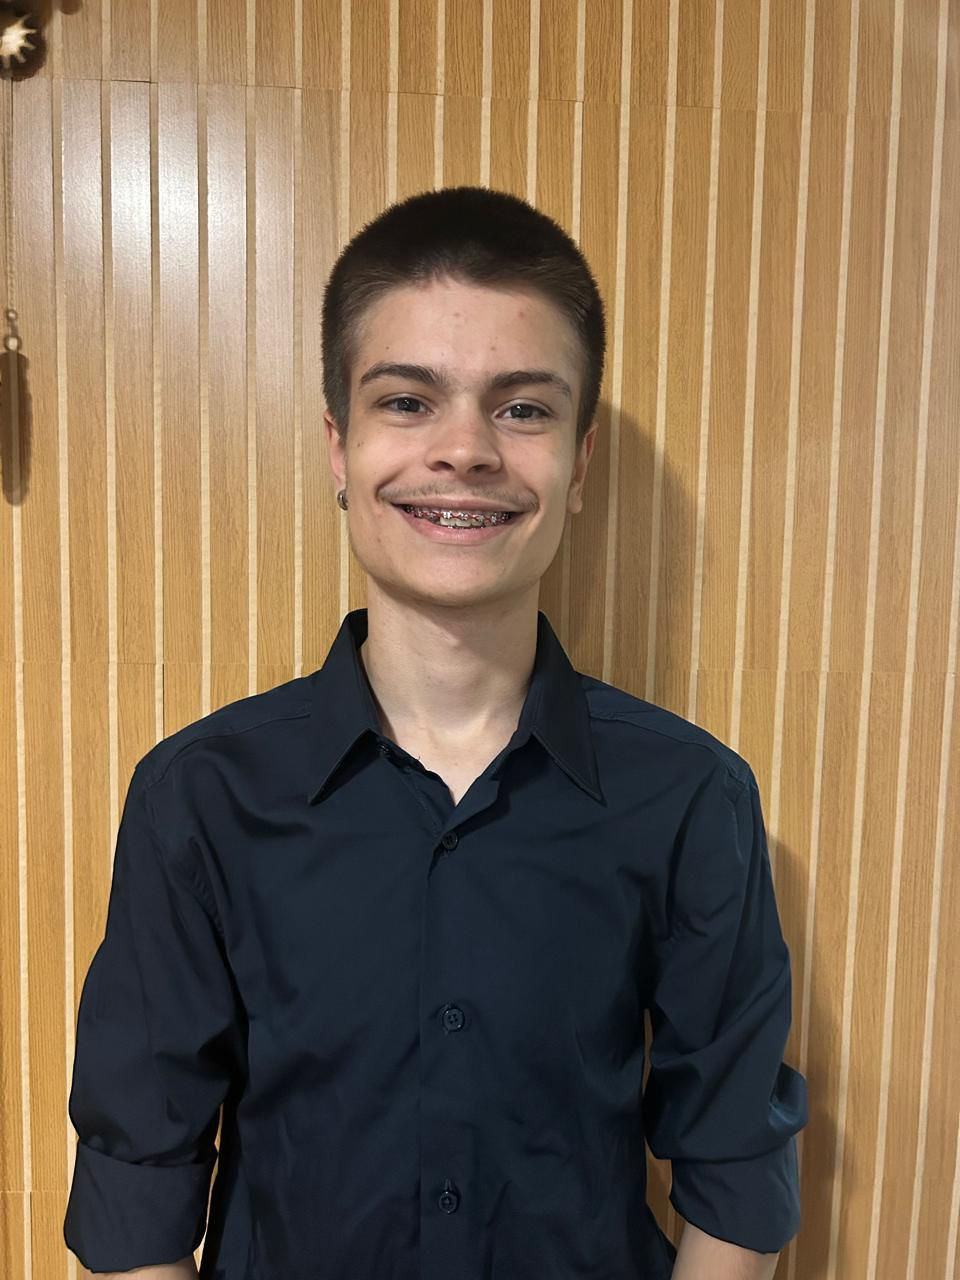
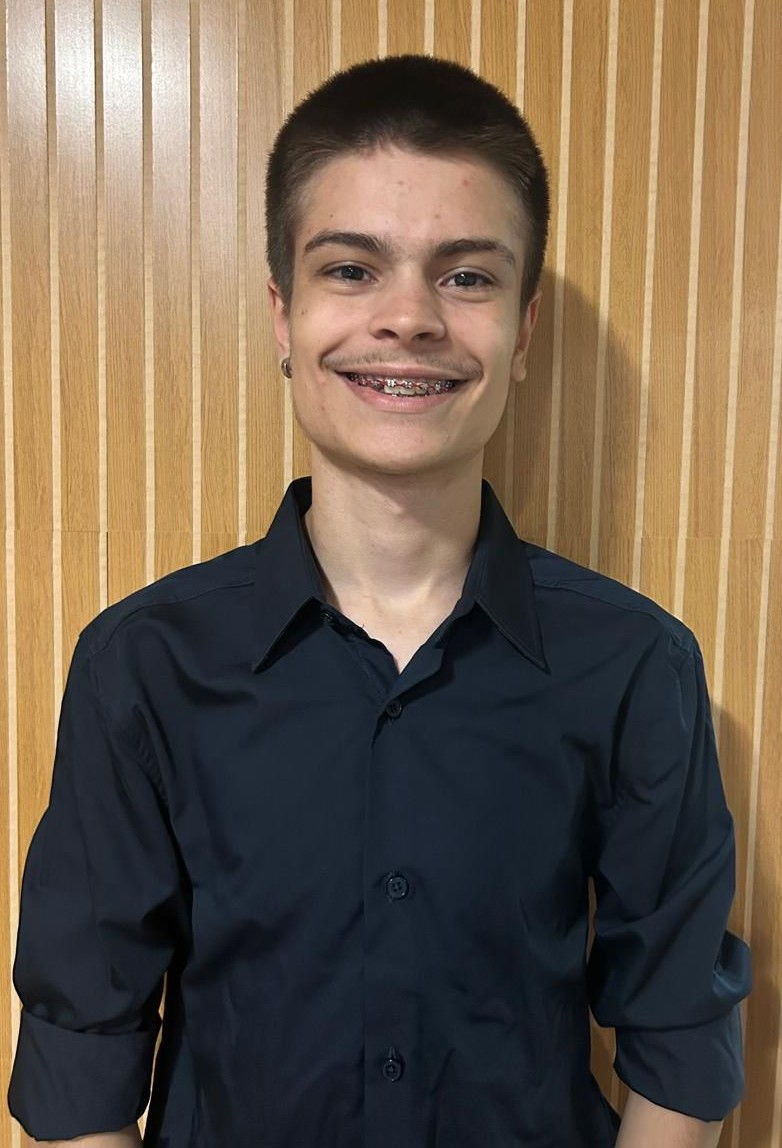
Changes
+ Page title
+ Copyright

diff --git a/Portfolio_Project/index.html b/Portfolio_Project/index.html
@@ -11,7 +11,7 @@
         <link rel="preconnect" href="https://fonts.gstatic.com" crossorigin>
         <link href="https://fonts.googleapis.com/css2?family=Roboto:wght@400;700&family=Montserrat:wght@600;800&family=JetBrains+Mono:wght@500&display=swap" rel="stylesheet">
 
-        <title>Portfólio - Home</title>
+        <title>Portfólio - Allan Dalazem</title>
     </head>
     <body>
         <header>
@@ -89,22 +89,22 @@
                 <div id="formacao" class="container-item">
                     <h2>Formação Acadêmica</h2>
 
-                    <p>Curso: Programação de Jogos Digitais</p>
-                    <p>Instituição: Instituto Federal do Paraná - Campus Curitiba</p>
+                    <p>Ensino médio integrado ao técnico em Programação de Jogos Digitais</p>
+                    <p>Instituto Federal do Paraná - Campus Curitiba</p>
                     <p>Período: Março/2023 - Dezembro/2026</p>
                 </div>
 
                 <div id="cursos" class="container-item">
                     <h2>Cursos Complementares</h2>
 
-                    <p>Curso: Análise de Dados</p>
+                    <p>Análise de Dados</p>
                     <p>Instituição: Tech.Já, JA Paraná e Coursera</p>
                     <p>Período: Setembro/2025 - Dezembro/2025</p>
 
                     <br>
 
-                    <p>Curso: Preparatório para Colégios Militares</p>
-                    <p>Instituição: Genius</p>
+                    <p>Preparatório para Colégios Militares</p>
+                    <p>Instituição: Genius</p>  
                     <p>Período: Março/2017 - Dezembro/2018</p>
                 </div>
 
@@ -112,8 +112,8 @@
                     <h2>Competências</h2>
 
                     <b>Hard Skills</b>
-                    <p>Linguagens: C | C++ | C# | SQL</p>
-                    <p>Softwares: Unity 2D/3D | Blender | GitHub | Pacote Office</p>
+                    <p>Linguagens: C | C++ | C# | SQL | HTML | CSS | JavaScript</p>
+                    <p>Softwares: Unity 2D/3D | Blender | GitHub | Inkscape | OpenToonz | Pacote Office</p>
 
                     <br>
 
@@ -192,7 +192,7 @@
         </div>
 
         <footer>
-            <p>&copy; 2026 - Todos os direitos reservados</p>
+            <p>&copy; 2026 Allan Dalazem - Todos os direitos reservados</p>
             
             <div>
                 <a target="blank" href="https://github.com/allan-dalazem" alt="GitHub"><i class="bi bi-github icon-style"></i></a>

diff --git a/Portfolio_Project/css/style.css b/Portfolio_Project/css/style.css
@@ -167,9 +167,10 @@ h1, h2, h3{
 }
 
 .about-me img{
-    width: 300px;
+    width: 250px;
     border-radius: 10px;
 
+    object-fit: cover;
     align-self: flex-start;
 }
 
